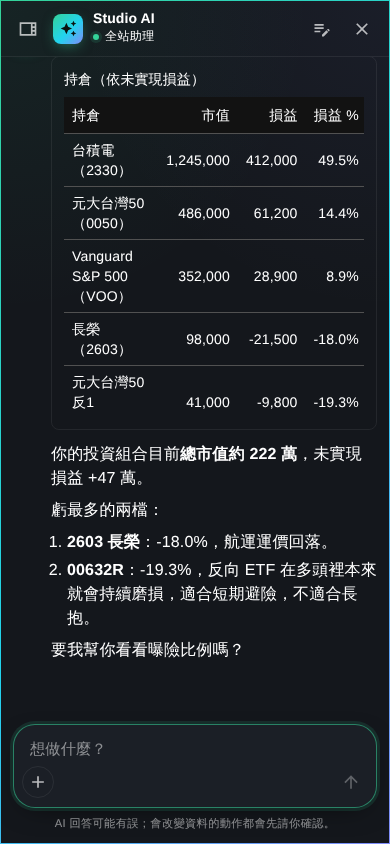
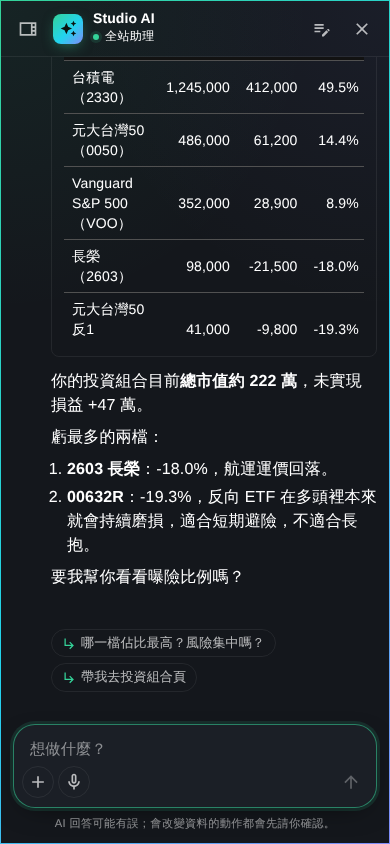
feat(data-analysis): AI 畫的圖表卡片可以自己換成資料適用的其他圖（不再問 AI、不花用量），加到 dashboard 存的是畫面上的那種；截圖腳本加「接著問」與換圖
Claude-Session: https://claude.ai/code/session_01EboJPc3nqPnHw99DjR3KSp

diff --git a/jackyaiapp.client/src/DataAnalysis/assistant/ChartCardView.tsx b/jackyaiapp.client/src/DataAnalysis/assistant/ChartCardView.tsx
@@ -1,33 +1,51 @@
 import DashboardCustomizeIcon from '@mui/icons-material/DashboardCustomizeOutlined';
-import { Box, Button, Typography } from '@mui/material';
+import { Box, Button, ToggleButton, ToggleButtonGroup, Typography } from '@mui/material';
 import { useMemo, useState } from 'react';
 
 import { AddToDashboardDialog } from '../viz/AddToDashboardDialog';
-import { getCapability } from '../viz/capabilities';
+import { getCapability, VIZ_CAPABILITIES } from '../viz/capabilities';
 import { computeDataShape } from '../viz/dataShape';
+import { evaluate } from '../viz/matcher';
 import { renderViz } from '../viz/renderViz';
 
 import { parseChartCardData } from './chartCard';
 
+import type { VizId } from '../viz/types';
 import type { CustomCard } from '@/components/aiChat/cards/toolCard';
 
+import { ActionTooltip } from '@/components/hints';
+
 /**
- * A summarize result the assistant drew, with the page's own chart renderers; one that carries its
- * plan can be added to a dashboard, which re-runs it on every view.
+ * A summarize result the assistant drew, with the page's own chart renderers. The reader can draw it
+ * as any other chart its data fits, right there (no question to the assistant, no charge), and one that
+ * carries its plan can be added to a dashboard as the chart on screen, which re-runs it on every view.
  */
 export default function ChartCardView({ card }: { card: CustomCard }) {
   const chart = useMemo(() => parseChartCardData(card.data), [card.data]);
   const [adding, setAdding] = useState(false);
-  if (!chart) return null;
-  const shape = computeDataShape(chart.headers, chart.rows, {
-    groupHints: chart.groupHints,
-    temporalHints: chart.temporalHints,
-  });
+  // The reader's pick; until then, the assistant's.
+  const [picked, setPicked] = useState<VizId | null>(null);
+  const shape = useMemo(
+    () =>
+      chart &&
+      computeDataShape(chart.headers, chart.rows, {
+        groupHints: chart.groupHints,
+        temporalHints: chart.temporalHints,
+      }),
+    [chart],
+  );
+  // Only the charts the data fits: the card is small, and the page's own switcher explains the rest.
+  const fitting = useMemo(
+    () => (shape ? VIZ_CAPABILITIES.filter((c) => evaluate(c, shape).ok) : []),
+    [shape],
+  );
+  if (!chart || !shape) return null;
+  const viz = picked ?? chart.viz;
 
   return (
     <Box>
-      <Box sx={{ display: 'flex', alignItems: 'center', gap: 1, mb: 1 }}>
-        <Typography variant="subtitle2" sx={{ flex: 1 }}>
+      <Box sx={{ display: 'flex', alignItems: 'center', gap: 1, mb: 1, flexWrap: 'wrap' }}>
+        <Typography variant="subtitle2" sx={{ flex: 1, minWidth: 120 }}>
           {card.title ?? getCapability(chart.viz).label}
         </Typography>
         {chart.plan && (
@@ -40,14 +58,34 @@ export default function ChartCardView({ card }: { card: CustomCard }) {
           </Button>
         )}
       </Box>
-      <Box sx={{ height: 280 }}>{renderViz(chart.viz, chart.rows, chart.headers, shape)}</Box>
+      {fitting.length > 1 && (
+        <ToggleButtonGroup
+          size="small"
+          exclusive
+          value={viz}
+          onChange={(_e, v: VizId | null) => {
+            if (v !== null) setPicked(v);
+          }}
+          aria-label="換一種圖表"
+          sx={{ flexWrap: 'wrap', mb: 1, '& .MuiToggleButton-root': { p: 0.5 } }}
+        >
+          {fitting.map((c) => (
+            <ActionTooltip key={c.id} title={c.label}>
+              <ToggleButton value={c.id} aria-label={c.label}>
+                {c.icon}
+              </ToggleButton>
+            </ActionTooltip>
+          ))}
+        </ToggleButtonGroup>
+      )}
+      <Box sx={{ height: 280 }}>{renderViz(viz, chart.rows, chart.headers, shape)}</Box>
       {chart.plan && (
         <AddToDashboardDialog
           open={adding}
           onClose={() => setAdding(false)}
-          vizType={chart.viz}
+          vizType={viz}
           plan={chart.plan}
-          gridDefault={getCapability(chart.viz).gridDefault}
+          gridDefault={getCapability(viz).gridDefault}
         />
       )}
     </Box>

diff --git a/jackyaiapp.client/src/DataAnalysis/assistant/ChartCardView.test.tsx b/jackyaiapp.client/src/DataAnalysis/assistant/ChartCardView.test.tsx
@@ -73,7 +73,39 @@ describe('ChartCardView', () => {
 
   it('offers no dashboard for a result without a plan', () => {
     render({ ...data, plan: undefined });
-    expect(container.querySelector('button')).toBeNull();
+    expect([...container.querySelectorAll('button')].map((b) => b.textContent)).not.toContain(
+      '加到 dashboard',
+    );
+  });
+
+  it('draws it as another chart the data fits when the reader picks one, and adds that one', () => {
+    render({
+      ...data,
+      viz: 'column',
+      headers: ['region', 'revenue'],
+      rows: [
+        { region: '北區', revenue: 100 },
+        { region: '南區', revenue: 80 },
+      ],
+      groupHints: ['region'],
+      temporalHints: [],
+    });
+    const offered = [
+      ...container.querySelectorAll<HTMLButtonElement>('[aria-label="換一種圖表"] button'),
+    ];
+    const labels = offered.map((b) => b.getAttribute('aria-label'));
+    expect(labels).toContain('圓餅圖 (Pie)');
+    // Only what fits: one category and one measure is no sankey.
+    expect(labels).not.toContain('桑基圖 (Sankey)');
+    expect(offered.find((b) => b.getAttribute('aria-pressed') === 'true')?.value).toBe('column');
+
+    act(() => offered.find((b) => b.value === 'pie')!.click());
+    expect(mocks.renderViz.mock.lastCall![0]).toBe('pie');
+    const add = [...container.querySelectorAll('button')].find(
+      (b) => b.textContent === '加到 dashboard',
+    )!;
+    act(() => add.click());
+    expect(container.textContent).toContain('[AddToDashboard pie]');
   });
 
   it('draws nothing for data it cannot check', () => {

diff --git a/jackyaiapp.client/src/components/StudioAssistant/studioChat.ts b/jackyaiapp.client/src/components/StudioAssistant/studioChat.ts
@@ -62,7 +62,10 @@ const STUDIO_FOLLOW_UPS: AiChatConfig['followUps'] = [
   { tools: ['look_up_word'], texts: ['把這個字加入我的單字庫', '用這個字造三個例句'] },
   { tools: ['add_word_to_repository'], texts: ['我今天還有哪些字要複習？'] },
   { tools: ['learning_progress'], texts: ['帶我去複習', '帶我去每日挑戰'] },
-  { tools: ['portfolio_summary'], texts: ['哪一檔佔比最高？風險集中嗎？', '帶我去投資組合頁'] },
+  {
+    tools: ['portfolio_summary'],
+    texts: ['哪一檔佔比最高？風險集中嗎？', '我的資產配置偏重哪裡？'],
+  },
   { tools: ['google_calendar_events'], texts: ['明天呢？', '這週哪天比較空？'] },
 ];
 
